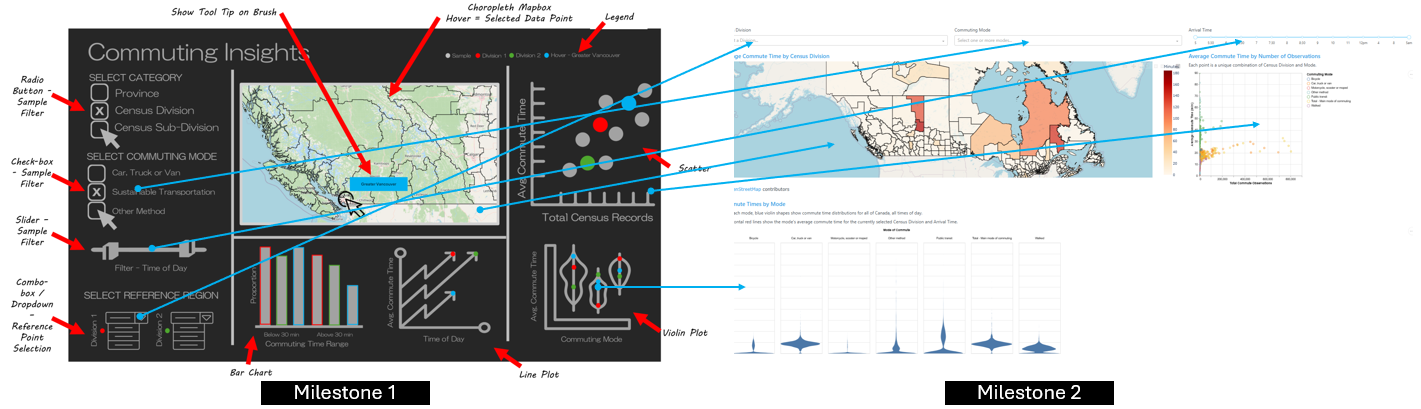
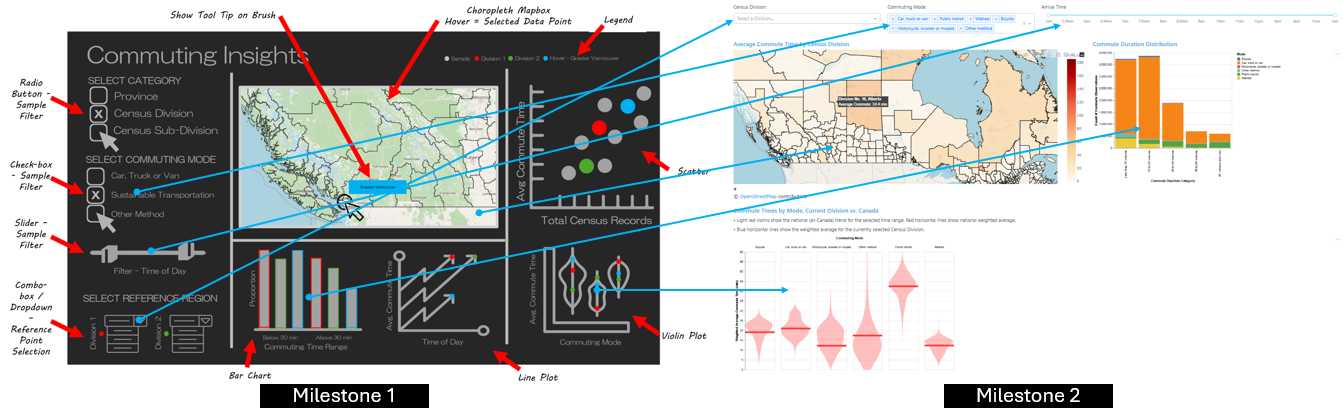
Updated reflection with last app status

Changed region(s): [[0.0, 0.0, 1.0, 0.9976], [0.6411, 0.9095, 0.8548, 0.9976], [0.5495, 0.0, 0.58, 0.0587]]

diff --git a/reports/m2_reflection.md b/reports/m2_reflection.md
@@ -1,39 +1,38 @@
-## Milestone 2 Reflection
+## Reflection
 
-This dashboard aims to assist the Canadian government by comparing commuting patterns, focusing on transportation modes and commute times to identify trends for informing national policies.
+This dashboard is designed to assist the Canadian government by analyzing commuting patterns, focusing on transportation modes and commute times. It aims to identify trends that can inform national policies.
 
 The image below displays the original *Commuting Insights* sketch proposal and its status at the time of Milestone 2 delivery.
 
 !["Dashboard - Milestone 2"](../img/sketch_m2.png)
 
-### Implemented Features:
-
-The current version of the app includes the following features:
+### Implemented Features
 
 - Choropleth map focused on `Census Division` in Canada, colored by `Average Commute Time`.
 - Drop-down filter to select `Census Division` of interest in Canada.
 - Drop-down filter to select one or multiple commuting modes to define the data sample.
-- Slider to filter data based on `Arrival Time`.
-- Violin plot for `Average Commute Time` vs selected `Commuting Mode`. Plot displays values of selected `Census Division`.
-- Scatter plot for `Average Commute Time` vs `Total Commute Time`.
-- Choropleth and descriptive visualizations respond to data filters.
+- Slider to filter sample based on `Arrival Time`.
+- Violin plot for `Average Commute Time` vs selected `Commuting Mode`. Plot displays weighted means for the sample and the selected `Census Division`.
+- Bar plot for `Count of Commute Observations` vs `Commute Duration Category`.
 
-### Missing Features:
+### Missing Features
 
+- Scatter plot for `Average Commute Time` vs `Total Commute Observations`
 - Line plot for `Average Commute Time` by `Time of Day`.
 - Styling features have not been developed.
 
 ### Changes to proposal
 
-- The radio button for selecting the type of regional division has been removed, focusing only on `Census Division`. Divisions by `Province` and `Census Sub-Divisions` were excluded because `Census Sub-divisions` lacked quality for proper display on the choropleth map.
-- The individual dropdown widgets for selecting individual reference `census regions` have been replaced by a single dropdown for selecting the `census region` of interest.
-- The bar chart displaying the proportion of commute counts by Commute Time Range has been removed, as its insights were redundant with the violin plots.
+- The radio button for selecting the type of regional division was removed, focusing only on `Census Division`. Divisions by `Province` and `Census Sub-Divisions` were excluded due to poor quality of `Census Sub-divisions` data for proper choropleth display.
+- The dropdown widgets for selecting individual `census regions` were replaced with a single dropdown for selecting the `census region` of interest.
+- The bar chart displaying the proportion of commute counts by `Commute Duration Category` was updated to a stacked version showing different `Commute Modes`.
 - The layout has been restructured: the sample selection section at the top, the choropleth map on the middle left, and descriptive visualizations on the bottom and right.
 
 These changes have minimal impact on the app's intended purpose while reducing code complexity and visual clutter.
 
 ### Issues
 
+- While the app deployment is fully functional, it experiences performance issues on the `render.com` platform, causing slower display times. Code optimization is planned for future iterations.
 - The choropleth map reads average commute times directly from the dataset, while other charts calculate a weighted average based on the number of observations. This discrepancy will be addressed in future iterations.
 - The browser title bar currently displays only "Dash" and should reflect the app’s name
 
@@ -41,10 +40,10 @@ These changes have minimal impact on the app's intended purpose while reducing c
 
 - Outlier management in the data sample makes plots difficult to interpret, as the visualization areas are consumed by outliers. This issue is being addressed for future iterations.
 
-### Strengths, Limitations, Potential Future Improvements
+### Summary
 
-- Strengths: The app is responsive, aligns with expectations, and follows best practices. It has a well-structured layout.
-- Limitations: The app could be improved stylistically to enhance visual appeal.
-- Limitations: While performance is adequate locally, Render responsiveness is slow to updates.
+- Strengths: The app is responsive both locally and in `render.com`, aligns with expectations, and follows best practices. It has a well-structured layout.
+- Limitations: While the app performs well locally, responsiveness is slow on Render.
+- Limitations: Additional features compromise rendering process. Code optimization is necessary to scale the app.
 - Future Improvement: The scatter plot could display `Commuting Density` on the x-axis instead of `Total Commute Observations`. Since `area` data is not available to calculate `Commuting Density`, the improvement would involve finding and incorporating it into the dataset.
 - Future Improvement: The app could be improved by recovering geographical categorization by `Province` to align to the availability of commute data.
